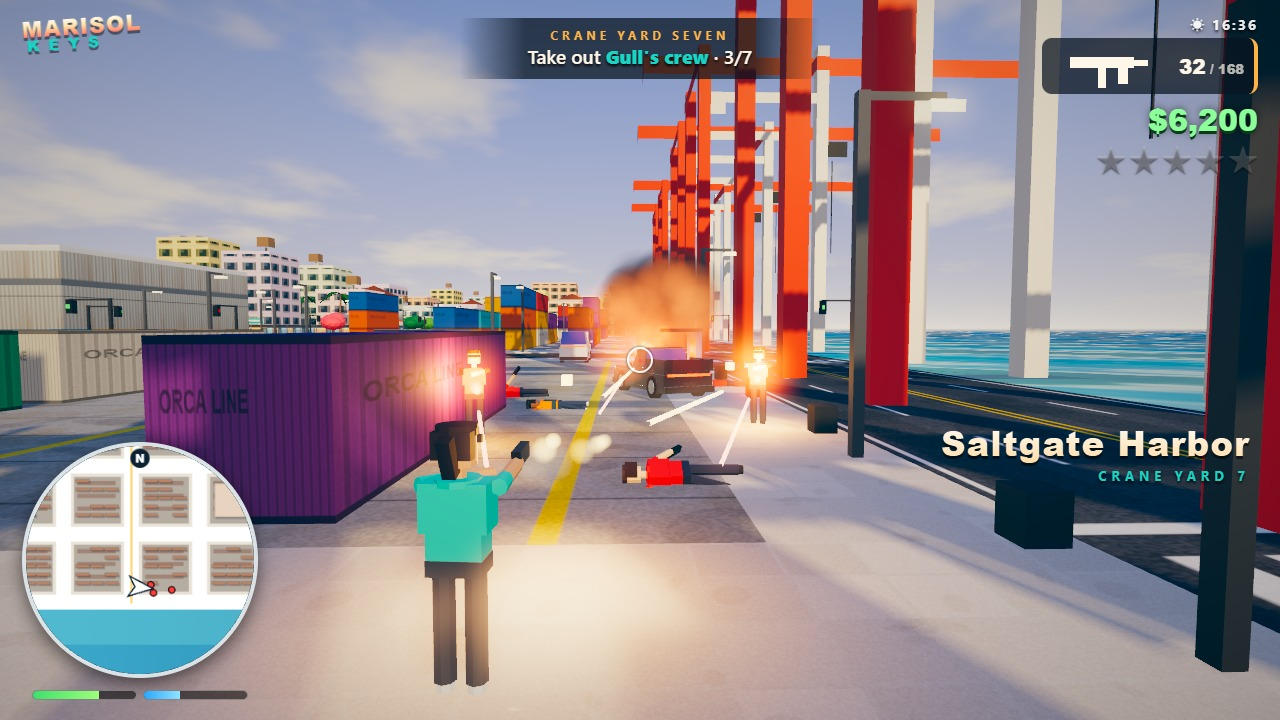
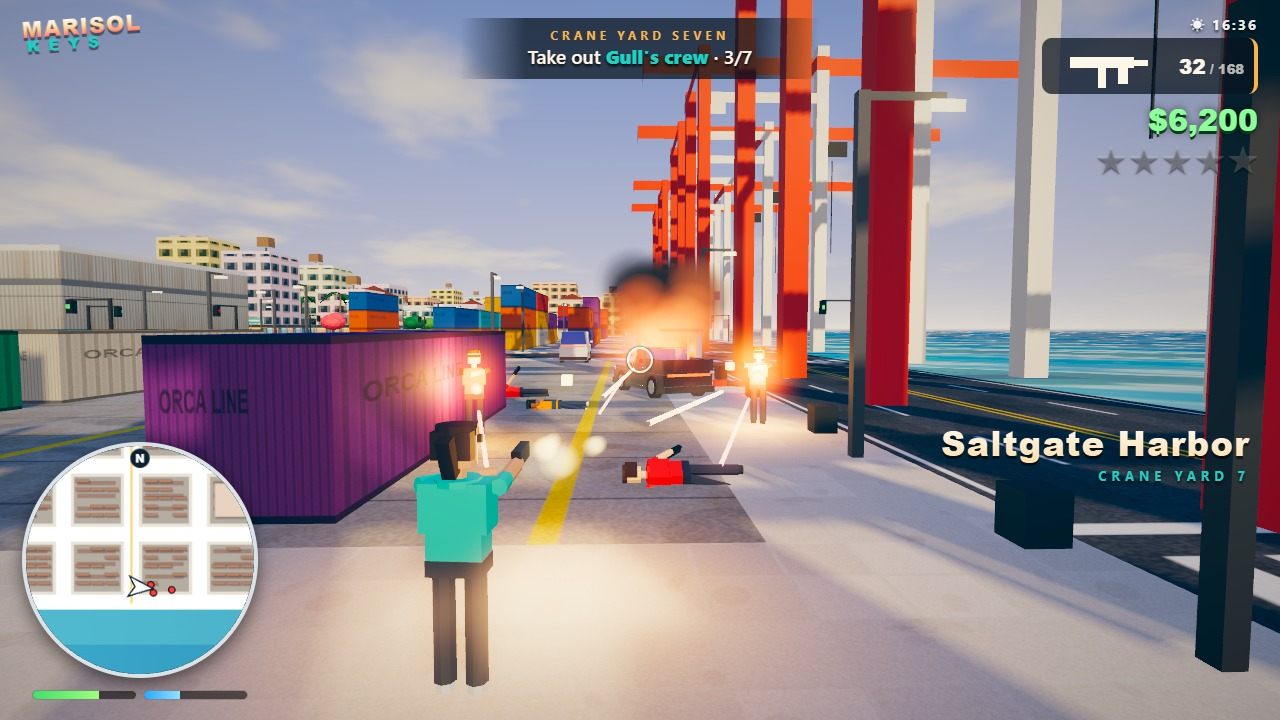
Convertibles carry visible drivers; two in the cover traffic

Changed region(s): [[0.4375, 0.3361, 0.5938, 0.55], [0.4062, 0.6111, 0.4688, 0.6722]]

diff --git a/game/src/vehicles/vehicleMesh.js b/game/src/vehicles/vehicleMesh.js
@@ -7,6 +7,7 @@ import * as THREE from 'three';
 import { MeshBatch, tint } from '../core/meshBatch.js';
 import { canvasTexture } from '../core/canvasTexture.js';
 import { speedboatBatch } from '../water/boats.js';
+import { buildHuman, poseHuman } from '../peds/humanModel.js';
 
 const bodyMat = new THREE.MeshPhysicalMaterial({ vertexColors: true, metalness: 0.3, roughness: 0.35, clearcoat: 1, clearcoatRoughness: 0.08, side: THREE.DoubleSide });
 const glowMat = new THREE.MeshStandardMaterial({ vertexColors: true, emissive: '#ffffff', emissiveIntensity: 3.2, roughness: 0.3 });
@@ -230,5 +231,14 @@ export function buildVehicleMesh(type, spec, paint) {
   beam.visible = false;
   group.add(beam);
   group.userData = { wheels, lightbar, body: bodyMesh, beam };
+  if (spec.open) {
+    // a seated driver, visible in the open cockpit (removed when Tessa takes the wheel)
+    const npc = buildHuman({ skin: '#d9a07a', shirt: paint === '#ffffff' ? '#ff6b5a' : '#ffffff', pants: '#3d5a80', hair: '#4a2c1a', hairStyle: 'short', shades: true, shoes: '#222', build: 0.95 });
+    poseHuman(npc, 'drive', 0, 0);
+    npc.userData.hips.position.y = 0.7;
+    npc.position.set(-0.42, -0.05, 0.55);
+    group.add(npc);
+    group.userData.npc = npc;
+  }
   return group;
 }

diff --git a/game/src/shots/shotScenes.js b/game/src/shots/shotScenes.js
@@ -83,6 +83,8 @@ export const SCENES = {
       streetCar(game, 'sedan', 4, 11 * B + 8, true, 1, 8);
       streetCar(game, 'bike', 4, 10 * B + 52, false, 0, 9);
       streetCar(game, 'taxi', 4, 10 * B + 44, false, 1, 9);
+      streetCar(game, 'convertible', 4, 10 * B + 28, false, 0, 9);
+      streetCar(game, 'convertible', 4, 9 * B + 62, true, 0, 9);
       crowd(game, [[11 * B + 8, 4 * B - 9, -1.6, 'flee'], [11 * B + 4, 4 * B - 9.5, 1.6, 'flee'], [11 * B + 2, 4 * B + 9.2, -1.5, 'idle'], [11 * B + 3, 4 * B + 9.6, 1.6, 'idle'],
         [11 * B + 18, 4 * B - 9, -1.6, 'walk'], [11 * B + 12, 4 * B + 9, 1.5, 'walk'], [10 * B + 56, 4 * B - 9.3, -1.6, 'walk'], [10 * B + 50, 4 * B + 9.5, -1.4, 'flee']]);
       game.wanted.setStars(4);

diff --git a/game/src/vehicles/vehicle.js b/game/src/vehicles/vehicle.js
@@ -199,6 +199,7 @@ export class Vehicle {
 
   syncMesh(dt, vF, time) {
     const m = this.mesh;
+    if (m.userData.npc) m.userData.npc.visible = !!this.driver && this.driver !== 'player' && !this.wrecked;
     m.position.copy(this.pos);
     m.rotation.set(this.spec.boat ? 0 : (this.pitch || 0), -this.heading, 0);
     // body roll in turns and pitch under braking
